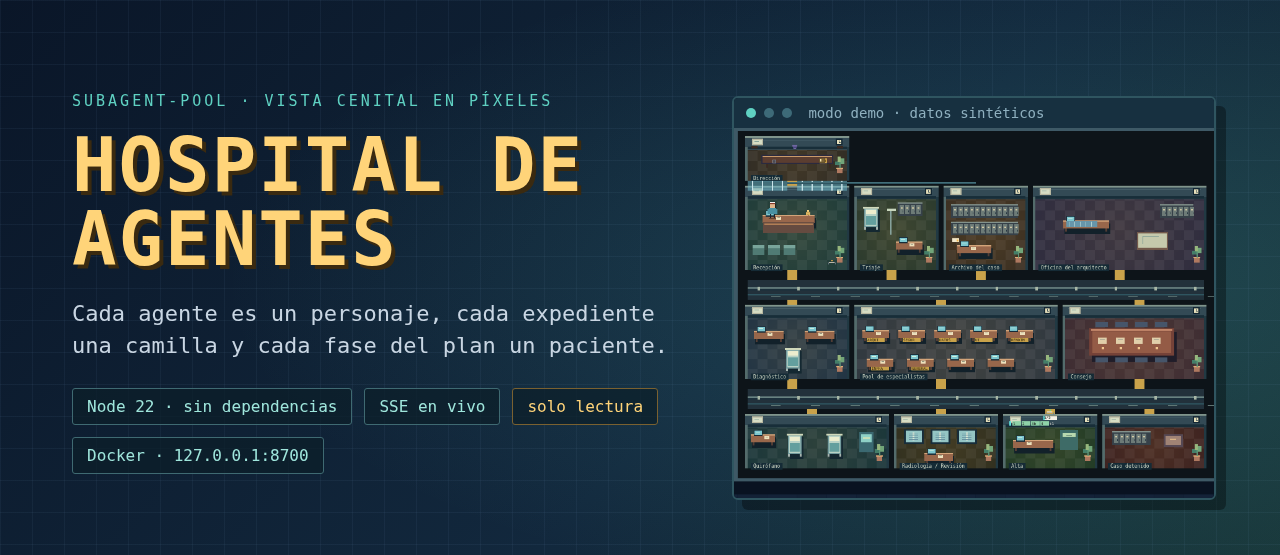
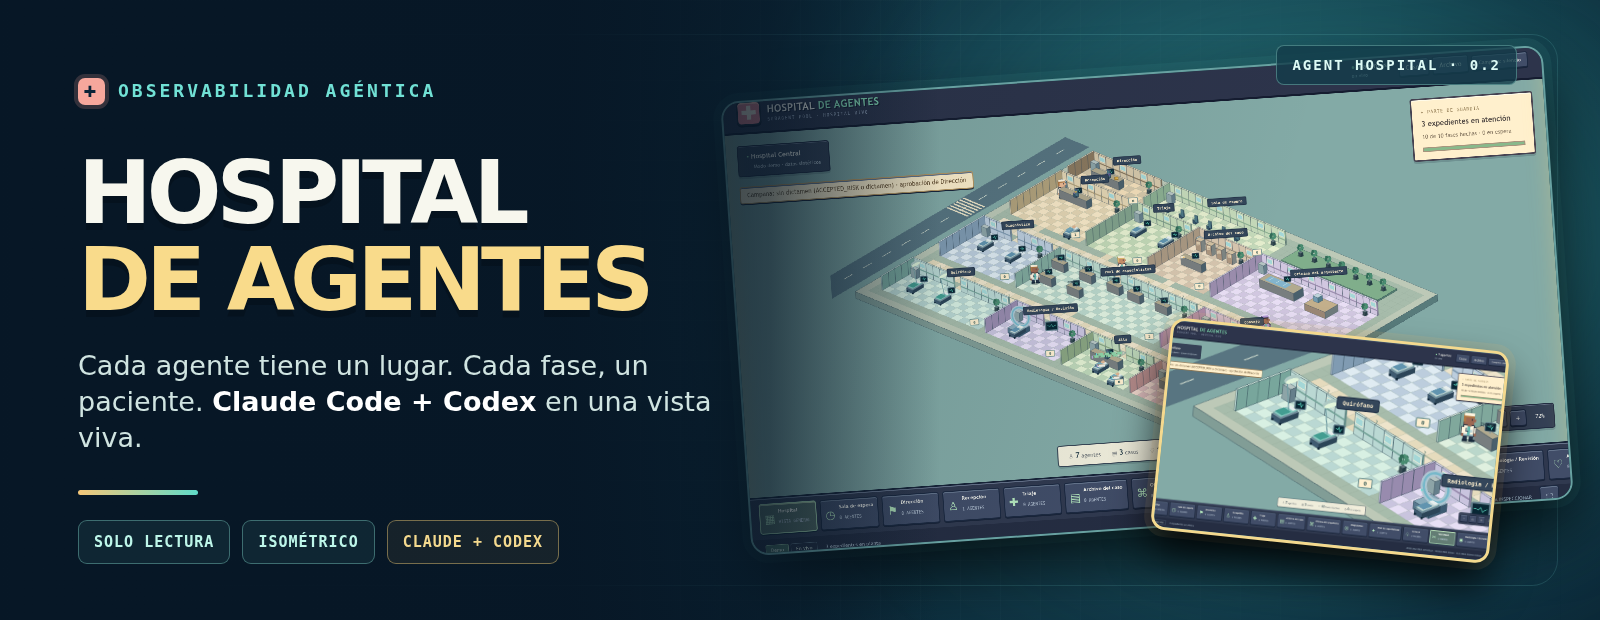
feat(view): restore full hospital overview and refresh project story

diff --git a/public/js/main.js b/public/js/main.js
@@ -38,6 +38,8 @@ const HOLD_ROOM = 'direction'; // a delegate that asked Direction walks to this 
 const hudView = () => (SCENE ? SCENE.view : view);
 const demoScene = () => currentMode !== 'live' || Boolean(SCENE);
 const roomSet = () => visibleRooms(hudView(), currentSession, { demo: demoScene() });
+const allRooms = new Set(ROOMS.map((room) => room.id));
+const displayRooms = () => overviewAll ? allRooms : roomSet();
 function sceneView() {
   const v = hudView();
   if (demoScene()) return v;
@@ -82,6 +84,7 @@ let es = null;
 let currentMode = null;
 let currentSession = null;
 let focusSignature = '';
+let overviewAll = false;
 
 // Escalation bell: sound is opt-in and persisted; the AudioContext is only created after a click (see below).
 const bellEl = document.getElementById('bell');
@@ -139,7 +142,7 @@ function updateBell(silent) {
 
 // Bell click: centre the camera on the room that holds the first waiting escalation.
 function centerOnRoom(roomId) {
-  if (!roomSet().has(roomId)) return;
+  if (!displayRooms().has(roomId)) return;
   const room = ROOMS.find((r) => r.id === roomId);
   if (!room) return;
   zoom = Math.max(fitZoom(), Math.min(2.5, (innerWidth - 60) / ((room.rect.w + room.rect.h) * 22)));
@@ -169,14 +172,14 @@ function focusBounds() {
     minY: Math.min(...points.map((p) => p[1])), maxY: Math.max(...points.map((p) => p[1])) };
 }
 function fitZoom() {
-  if (demoScene() || roomSet().size === ROOMS.length) return fitIsometric(innerWidth, innerHeight);
+  if (overviewAll || demoScene() || roomSet().size === ROOMS.length) return fitIsometric(innerWidth, innerHeight);
   const b = focusBounds();
   return Math.max(.15, Math.min(2.5, (innerWidth - 48) / (b.maxX - b.minX + 32),
     (innerHeight - 228) / (b.maxY - b.minY + 32)));
 }
 function center() {
   camera.scale = zoom;
-  if (!demoScene() && roomSet().size < ROOMS.length) {
+  if (!overviewAll && !demoScene() && roomSet().size < ROOMS.length) {
     const b = focusBounds();
     camera.x = Math.round(innerWidth / 2 - (b.minX + b.maxX) * zoom / 2);
     camera.y = Math.round(92 + (innerHeight - 228) / 2 - (b.minY + b.maxY) * zoom / 2);
@@ -185,7 +188,7 @@ function center() {
     camera.y = Math.round(92 + (innerHeight - 228 - WORLD.height * zoom) / 2);
   }
   zoomEl.textContent = `${Math.round(zoom * 100)}%`;
-  document.getElementById('camera-title').textContent = demoScene() || roomSet().size === ROOMS.length ? 'Hospital Central' : 'Actividad observada';
+  document.getElementById('camera-title').textContent = overviewAll || demoScene() || roomSet().size === ROOMS.length ? 'Hospital Central' : 'Actividad observada';
   for (const [id, button] of roomButtons) { button.classList.toggle('selected', id === 'all'); button.setAttribute('aria-pressed', String(id === 'all')); }
 }
 function resize() { canvas.width = innerWidth; canvas.height = innerHeight; zoom = fitZoom(); center(); }
@@ -213,6 +216,7 @@ function openStream() {
   selectedAgent = null;
   document.getElementById('character-card').hidden = true;
   focusSignature = '';
+  overviewAll = false;
   refreshFocus(true);
   updateHud();
   updateBell(true);
@@ -379,7 +383,7 @@ function step(now) {
   }
   const frozen = FREEZE_TOOL || FREEZE_WARN || SCENE;
   renderer.draw(WARN_VIEW ?? sceneView(), positions, frozen ? FREEZE_NOW : Date.now(),
-    { camera, freezeTool: FREEZE_TOOL, visibleRooms: demoScene() ? undefined : roomSet() });
+    { camera, freezeTool: FREEZE_TOOL, visibleRooms: demoScene() || overviewAll ? undefined : roomSet() });
   requestAnimationFrame(step);
 }
 
@@ -402,8 +406,11 @@ function updateHud() {
       badges.appendChild(badge);
     }
   }
-  countEl.textContent = `${agents.length} agentes`;
-  activityEl.textContent = focused ? `${agents.length} agentes en actividad` : `${Object.keys(v.cases).length} expedientes en planta`;
+  countEl.textContent = `${agents.length} ${agents.length === 1 ? 'agente' : 'agentes'}`;
+  const caseCount = Object.keys(v.cases).length;
+  activityEl.textContent = focused
+    ? `${agents.length} ${agents.length === 1 ? 'agente' : 'agentes'} en actividad`
+    : `${caseCount} ${caseCount === 1 ? 'expediente' : 'expedientes'} en planta`;
   updateOverview(v);
   casesEl.replaceChildren();
   for (const c of Object.values(v.cases)) {
@@ -461,7 +468,7 @@ for (const room of [{id:'all', name:'Hospital'}, ...ROOMS]) {
   const title=document.createElement('b');title.textContent=room.name;
   const count=document.createElement('small');count.textContent=room.id==='all'?'VISTA GENERAL':'0 AGENTES';
   button.appendChild(icon);button.appendChild(title);button.appendChild(count);
-  button.addEventListener('click',()=>{ if(room.id==='all'){zoom=fitZoom();center();}else centerOnRoom(room.id); });
+  button.addEventListener('click',()=>{ if(room.id==='all'){overviewAll=true;zoom=fitZoom();center();updateOverview(sceneView());}else centerOnRoom(room.id); });
   roomButtons.set(room.id,button);document.getElementById('departments').appendChild(button);
 }
 let selectedAgent=null;
@@ -485,8 +492,8 @@ function updateOverview(v) {
   document.getElementById('case-summary').textContent=cases.length?`${cases.length} expedientes en atención`:'Sin expedientes activos';
   document.getElementById('phase-summary').textContent=phases.length?`${done} de ${phases.length} fases hechas · ${waiting} en espera`:'Las fases aparecerán al recibir un plan.';
   document.getElementById('phase-progress').style.width=`${phases.length?done/phases.length*100:0}%`;
-  const visible = roomSet();
-  for(const [id,button]of roomButtons){if(id==='all')continue;button.hidden=!visible.has(id);const count=button.children[2];count.textContent=`${agents.filter(a=>a.room===id&&!a.leaving).length} AGENTES`;}
+  const visible = displayRooms();
+  for(const [id,button]of roomButtons){if(id==='all')continue;button.hidden=!visible.has(id);const count=button.children[2];const n=agents.filter(a=>a.room===id&&!a.leaving).length;count.textContent=`${n} ${n===1?'AGENTE':'AGENTES'}`;}
   paintCharacter(v);
 }
 document.getElementById('character-close').addEventListener('click',()=>{selectedAgent=null;document.getElementById('character-card').hidden=true;});
@@ -494,7 +501,7 @@ document.getElementById('fullscreen').addEventListener('click',async()=>{try{if(
 
 document.getElementById('plus').addEventListener('click', () => changeZoom(zoom * 1.25));
 document.getElementById('minus').addEventListener('click', () => changeZoom(zoom / 1.25));
-document.getElementById('reset').addEventListener('click', () => { zoom = fitZoom(); center(); });
+document.getElementById('reset').addEventListener('click', () => { overviewAll = true; zoom = fitZoom(); center(); updateOverview(sceneView()); });
 bellEl.addEventListener('click', () => {
   const v = sceneView();
   const e = (v.escalations ?? [])[0];

diff --git a/test/visual.test.js b/test/visual.test.js
@@ -279,7 +279,8 @@ test('live HUD focuses observed rooms and clears focus on session switch', async
   globalThis.innerWidth = 1200;
   globalThis.innerHeight = 900;
   globalThis.window = { addEventListener: () => {} };
-  globalThis.requestAnimationFrame = () => {};
+  let frame;
+  globalThis.requestAnimationFrame = (fn) => { frame = fn; };
   globalThis.EventSource = class {
     constructor(url) { this.url = url; this.handlers = {}; streams.push(this); }
     addEventListener(name, fn) { this.handlers[name] = fn; }
@@ -308,13 +309,19 @@ test('live HUD focuses observed rooms and clears focus on session switch', async
     assert.equal(roomButton('Alta').hidden, true);
     assert.equal(byId('overview').hidden, true);
     assert.equal(byId('case-stats').hidden, true);
-    assert.match(byId('activity').textContent, /agentes en actividad/);
+    assert.match(byId('activity').textContent, /1 agente en actividad/);
     assert.equal(byId('session-badges').children[0].textContent, 'Codex · 12345678');
     const fittedZoom = Number.parseInt(byId('zoom').textContent);
     listeners['plus:click']();
     assert.ok(Number.parseInt(byId('zoom').textContent) > fittedZoom, 'focused room still zooms on click');
     listeners['reset:click']();
-    assert.equal(Number.parseInt(byId('zoom').textContent), fittedZoom);
+    assert.ok(Number.parseInt(byId('zoom').textContent) < fittedZoom, 'Vista general fits the whole hospital');
+    assert.equal(roomButton('Consejo').hidden, false, 'Vista general exposes the Council room');
+    assert.equal(roomButton('Alta').hidden, false, 'Vista general exposes Discharge');
+    log.text.length = 0;
+    frame(1040); // initial animation callback installs the drawing loop
+    frame(1056);
+    assert.ok(log.text.includes('Consejo'), `Vista general draws the Council room on Canvas: ${log.text.slice(0,25).join(', ')}`);
     const leaving = snapshot('codex-12345678', 'diagnosis', 'codex');
     leaving.agents.one.status = 'handback';
     leaving.agents.one.leaving = true;

diff --git a/README.md b/README.md
@@ -6,18 +6,23 @@
 [![Docker](https://img.shields.io/badge/Docker-Compose-2496ed.svg?logo=docker&logoColor=white)](https://docs.docker.com/compose/)
 [![Node](https://img.shields.io/badge/Node-22-339933.svg?logo=node.js&logoColor=white)](https://nodejs.org/)
 
-Pixel-art, read-only viewer for Claude Code and Codex agents. It observes local transcripts in Docker, with the full hospital workflow for confirmed [subagent-pool](#hecho-con-subagent-pool) sessions.
-Unofficial and independent: not an Anthropic or OpenAI project.
+**El trabajo de los agentes, visto como un hospital vivo.** Un visor isométrico de solo lectura para Claude Code y Codex: personajes, oficinas, expedientes y fases que avanzan con la actividad real.
 
-![Hospital de agentes en funcionamiento](docs/demo.gif)
+[▶ Ver la demostración](docs/demo.gif) · [🚀 Instalar](#puesta-en-marcha) · [🧭 Entender las salas](#cómo-se-mapea-subagent-pool-a-las-salas) · [📚 Fundamentos y fuentes](docs/estado-del-arte.md)
 
-*Modo demo · datos sintéticos*
+![Recorrido animado por el hospital: vista general, quirófano, pool y consejo](docs/demo.gif)
 
-**Una vista isométrica en píxeles de agentes de Claude Code y Codex.** Cada agente es un personaje. Cuando hay evidencia
-de [subagent-pool](#hecho-con-subagent-pool), cada expediente es una camilla y cada fase del plan un paciente. Otras
-sesiones muestran solo las salas relacionadas con su actividad. Node.js 22 sin dependencias, en Docker, solo lectura.
+*Demostración grabada en el navegador con datos sintéticos. 1200 × 685 px; 12 segundos. El modo live se alimenta de las transcripciones locales.*
 
-```
+| Sesión observada | Lo que aparece |
+|---|---|
+| Claude Code o Codex con cualquier skill | El agente y las salas relacionadas con la actividad reconocida. El botón «Vista general» muestra el edificio completo, con las demás salas vacías. |
+| Sesión confirmada de subagent-pool | El hospital completo: recepción, espera, diagnóstico, quirófano, revisión, consejo, dirección, archivo y alta. |
+| `?mode=demo` | Todo el hospital con un recorrido sintético para explorar el diseño. |
+
+> **¿Solo ves una sala?** La vista enfocada muestra la actividad reconocida. Pulsa **«Vista general»** (⌂ o el botón «Hospital») para ver todas las habitaciones también en live. Eso no crea expedientes ni activa el flujo clínico en una sesión ordinaria. En Codex, el expediente debe incluir `Hospital session: codex-<CODEX_THREAD_ID>` y el visor necesita observar a los subagentes; el vínculo no se infiere del nombre de la skill.
+
+```text
 Claude Code ── ~/.claude/projects/*.jsonl ──┐
                                              ├─(:ro)─► Node 22: tail → normalizar → reducir
 Codex ── ~/.codex/sessions/**/rollout*.jsonl ┘                         │ SSE /events
@@ -25,6 +30,8 @@ expedientes plans/*-state.md ────────────────(:r
                                                                         ▼
                                                navegador: Canvas 2D isométrico
 ```
+
+**Privacidad y alcance.** El visor no ejecuta agentes ni modifica expedientes. El compose de demo no monta datos personales; el de live monta transcripciones y planes en solo lectura. Es un proyecto independiente, sin afiliación con Anthropic u OpenAI.
 
 ---
 
@@ -80,9 +87,9 @@ representa la evidencia disponible.
 ## Puesta en marcha
 
 ```bash
-docker compose up -d --build          # demo: http://127.0.0.1:8700 (no monta nada del disco)
+docker compose up -d --build          # demo: http://127.0.0.1:8700/?mode=demo
 curl http://127.0.0.1:8700/api/health # {"ok":true,"mode":"demo"}
-docker compose -f docker-compose.yml -f compose.live.yml up -d --build   # live: lee transcripciones y expedientes (solo lectura)
+docker compose -f docker-compose.yml -f compose.live.yml up -d --build   # live: http://127.0.0.1:8700/?mode=live
 docker build --target test .          # pruebas unitarias dentro de Docker
 ```
 
@@ -183,8 +190,7 @@ Sin dependencias de desarrollo: solo la biblioteca estándar de Node 22.
 - **Confirmación conservadora en Codex.** El hospital espera la cabecera `Hospital session`, un expediente reciente y
   la finalización observada de un subagente con rol pertinente antes de abrir el flujo
   completo. Mientras tanto muestra la actividad en las salas correspondientes, sin inventar pacientes ni altas.
-- **Plural y etiquetas.** La cabecera dice «1 agentes» con un solo agente y muestra «en vivo» también en demo (es el
-  estado de la conexión SSE, no de los datos).
+- **Etiquetas.** «En vivo» en demo representa el estado de la conexión SSE, no el origen de los datos.
 - **Solo probado en Linux.** En macOS y Windows (Docker Desktop) no se ha verificado el montaje de `${HOME}`.
 - **Acceso desde el móvil.** Requiere cambiar la publicación del puerto y `HOSPITAL_ALLOWED_HOSTS`; no hay login.
 

diff --git a/CHANGELOG.md b/CHANGELOG.md
@@ -10,6 +10,9 @@ Formato: [Keep a Changelog](https://keepachangelog.com/es-ES/1.1.0/). Versiones 
   montadas en solo lectura. Los identificadores de sesión separan ambos programas.
 - Vista enfocada para sesiones ajenas a subagent-pool: muestra las salas pertinentes a la actividad observada;
   el hospital completo se reserva para sesiones con confirmación estructurada de subagent-pool.
+- «Vista general» muestra todas las habitaciones también en una sesión ordinaria; la vista enfocada conserva solo
+  las salas con actividad. Contadores en singular cuando hay un agente.
+- Banner y GIF de demo nuevos, documentación de Claude y Codex y enlace al expediente de subagent-pool.
 - Pruebas de clasificación, parentesco, aislamiento de sesiones y privacidad de eventos.
 - Asociación exacta del expediente de Codex mediante la cabecera `Hospital session`, para evitar activar el flujo
   completo con un expediente de otra sesión.
